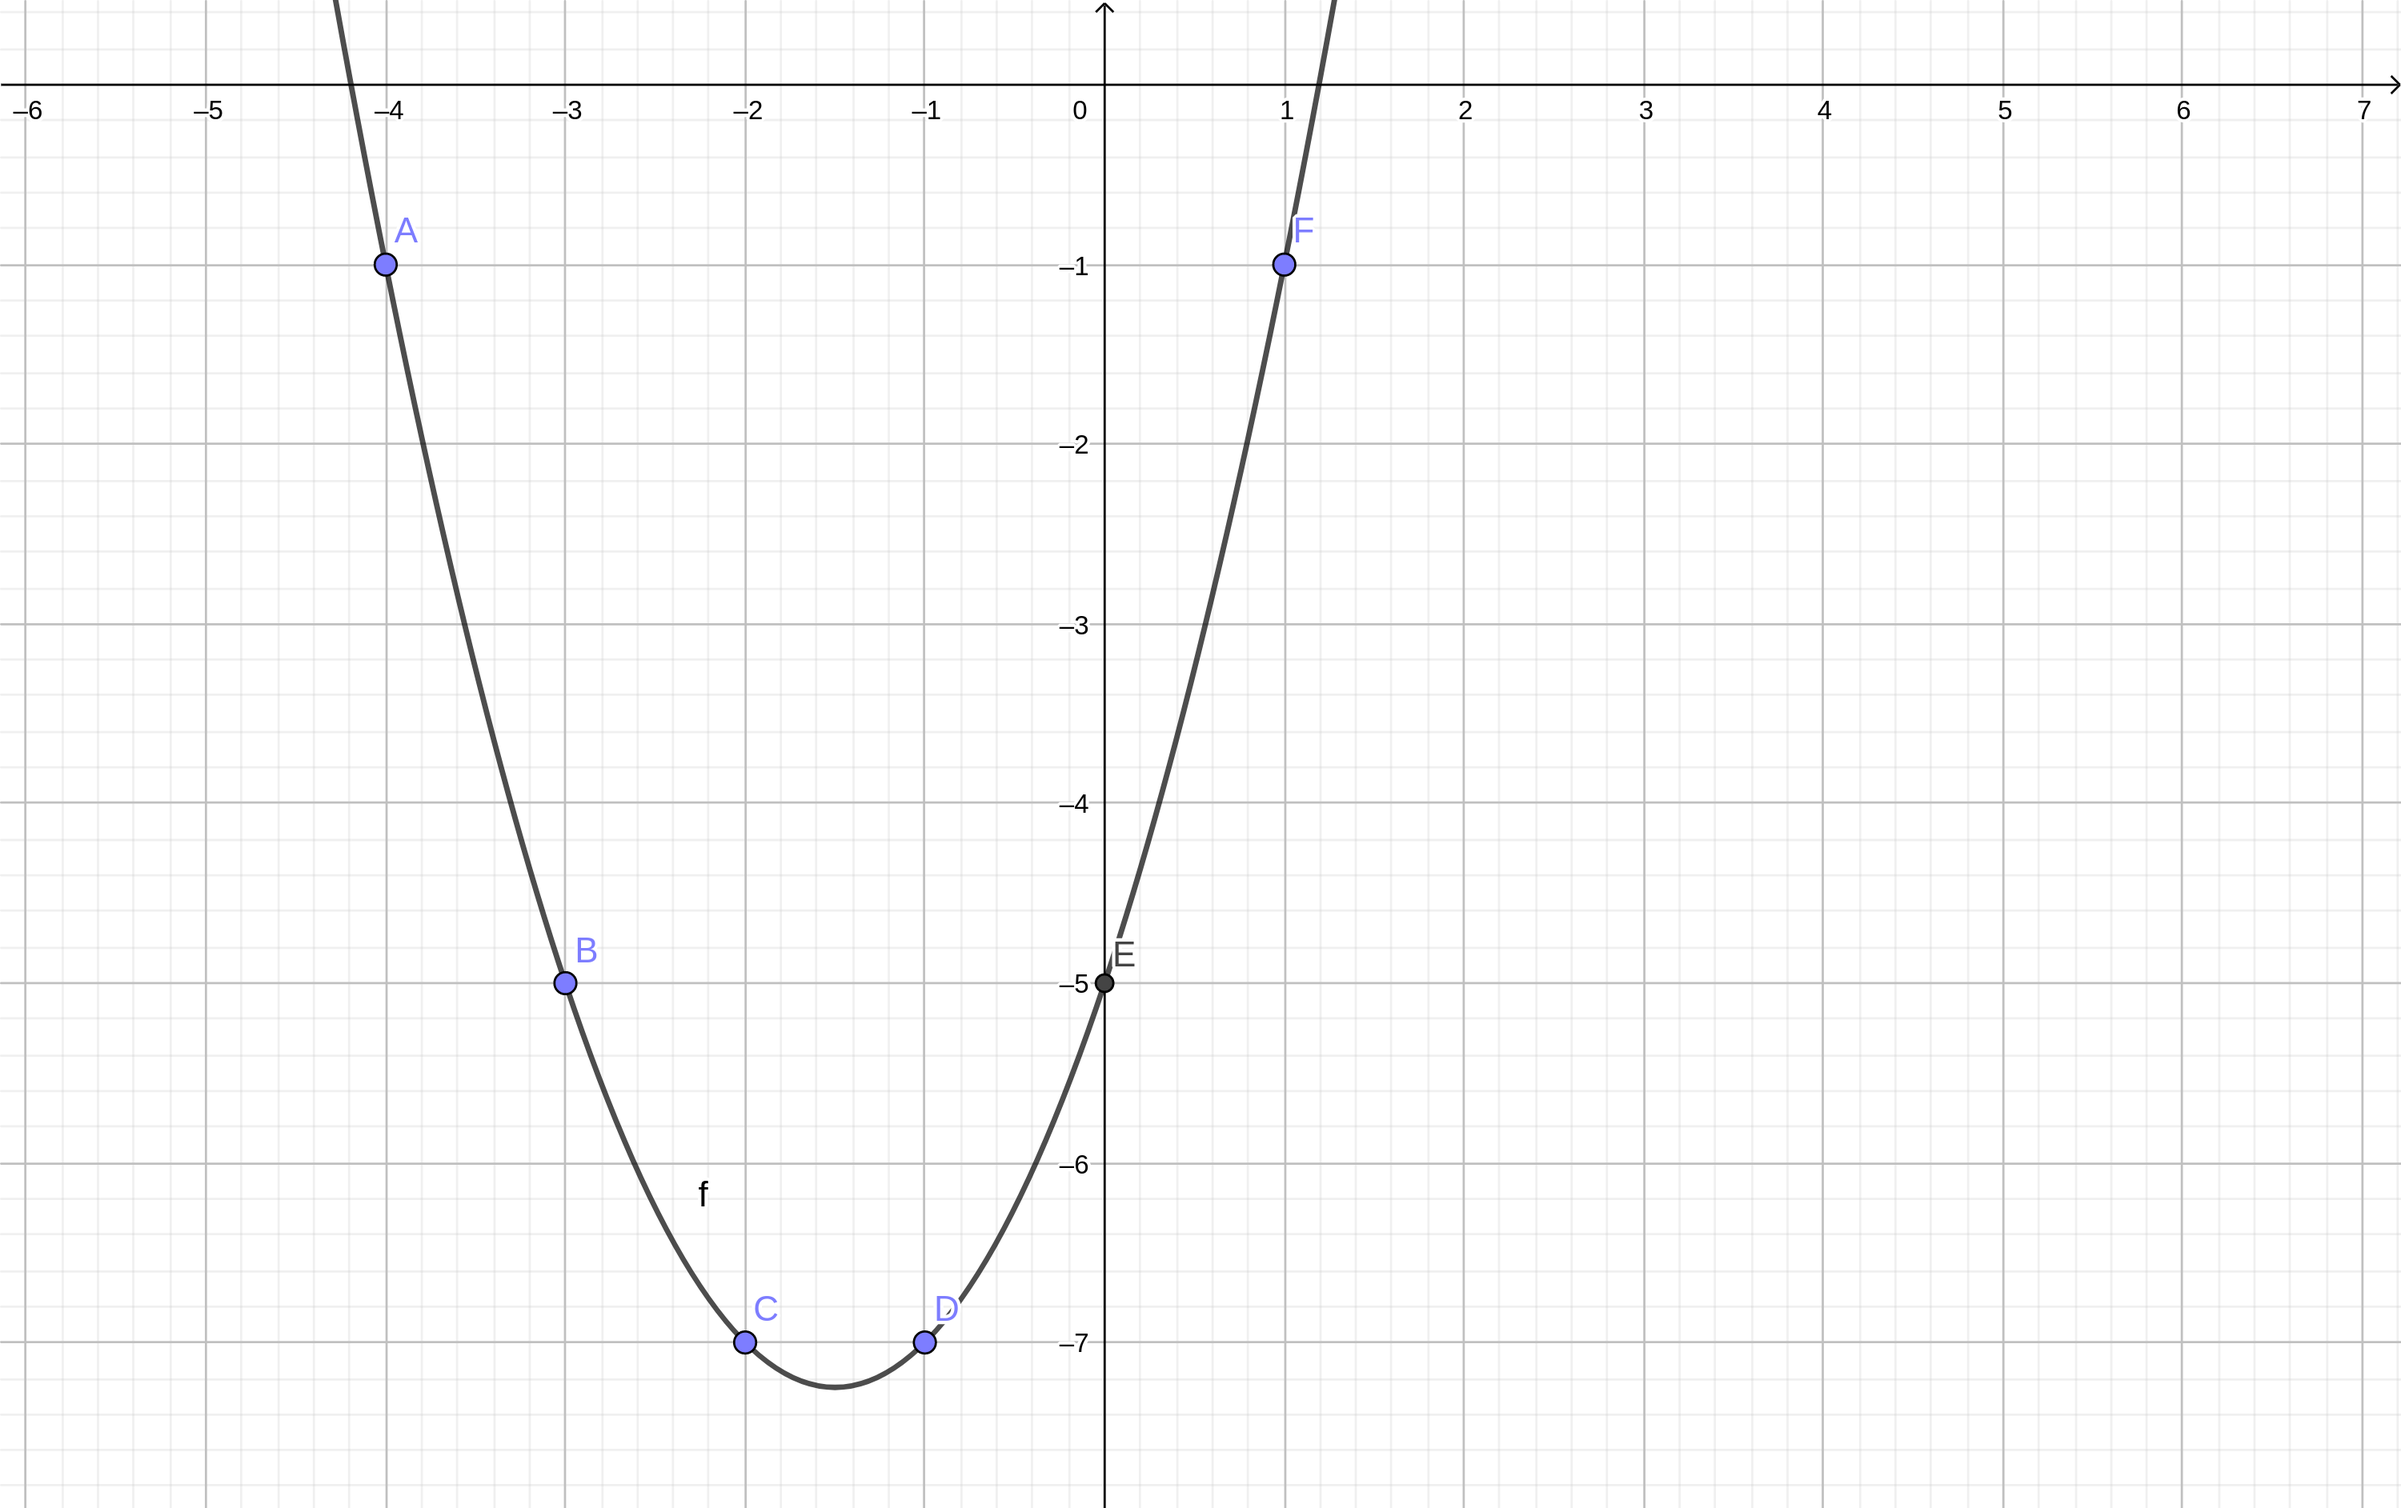
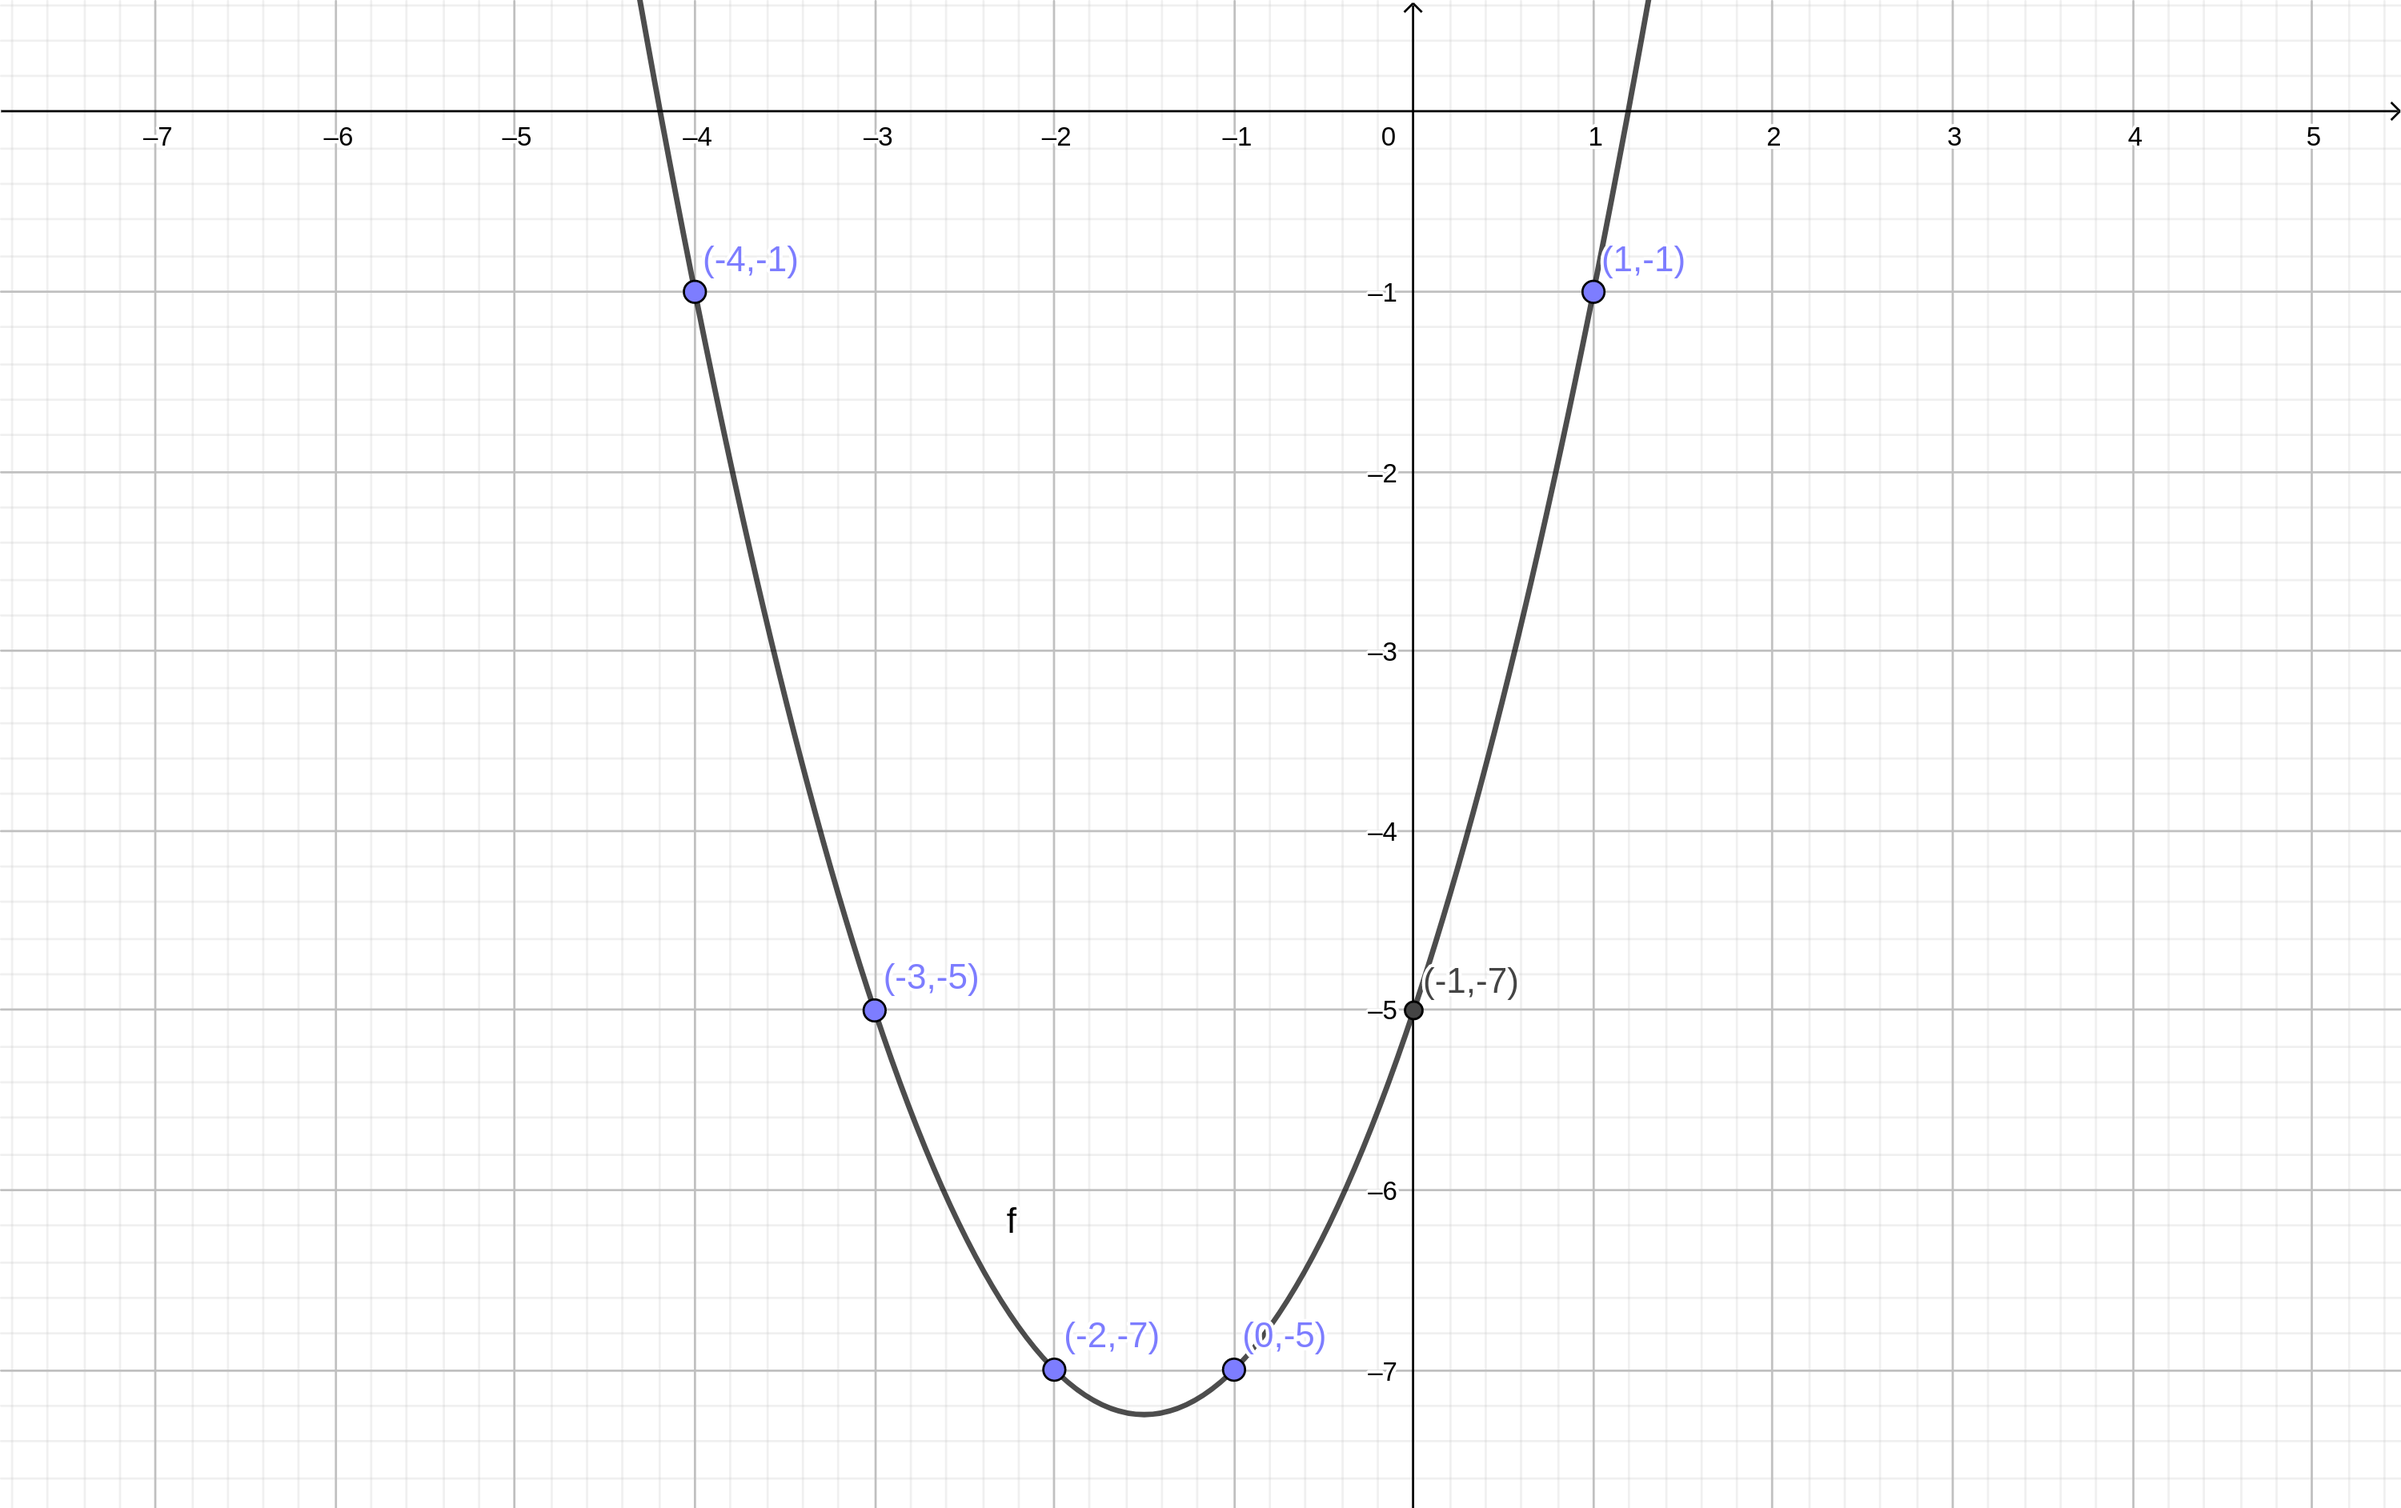
Contenido sobre funciones

diff --git a/docs/U1.html b/docs/U1.html
@@ -367,8 +367,9 @@ Para\ x=-1,\ y=-7\\
 Para\ x=0,\ y=-5\\
 Para\ x=1,\ y=-1\\
 \]</span></p>
-<p>Como quizá recordemos, una ecuación cuadrática tiene por representación gráfica una línea curva conocida como parábola. Si la elaboramos, relacionando cada dato de entrada con su respectivo dato de salida e identificando cada par resultante por una letra, quedaría como se muestra en la siguiente figura:</p>
-<p><img src="images/funciones-001.png" /> Notemos pues que para cada dato de entrada le corresponde solo un dato de salida. Esto es la definición de <strong>función</strong>:</p>
+<p>Como quizá recordemos, una ecuación cuadrática tiene por representación gráfica una línea curva conocida como parábola. Si la elaboramos, relacionando cada dato de entrada con su respectivo dato de salida e identificando cada par resultante, quedaría como se muestra en la siguiente figura:</p>
+<p><img src="images/funciones-001.png" /></p>
+<p>Notemos pues que para cada dato de entrada le corresponde solo un dato de salida. Esto es la definición de <strong>función</strong>:</p>
 <blockquote>
 <p>Una <strong>función</strong> es una regla matemática que asigna a cada valor de entrada <em>uno y solo un</em> valor de salida.</p>
 </blockquote>
